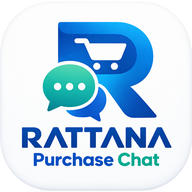
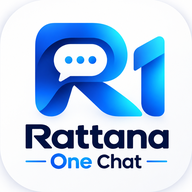
v2.08 — เปลี่ยนชื่อเป็น Rattana One Chat + โลโก้ใหม่ · รูปประจำบัญชี (จัดซื้อ/Official/Mart) ทุกจุด รวมไอคอนแจ้งเตือน

diff --git a/sw.js b/sw.js
@@ -1,4 +1,4 @@
-/* RTN Chat Hub — Service Worker v2 (หลายบัญชี: กดแจ้งเตือนแล้วเปิดแชทในบัญชีของมัน)
+/* Rattana One Chat (เดิม RTN Chat Hub) — Service Worker v3 (หลายบัญชี: กดแจ้งเตือนแล้วเปิดแชทในบัญชีของมัน)
    หน้าที่เดียว: รับ Web Push แล้วเด้งแจ้งเตือนของเครื่อง แม้ปิดแอพอยู่
    ไม่ cache ไฟล์แอพ (แอพเป็นไฟล์เดียว อัปเดตบ่อย — cache แล้วจะได้ของเก่า) */
 
@@ -6,15 +6,17 @@ self.addEventListener('install', () => self.skipWaiting());
 self.addEventListener('activate', e => e.waitUntil(self.clients.claim()));
 
 const ICON = 'icon-192.png';
+// ไอคอนของแจ้งเตือน = รูปประจำบัญชีที่แชทนั้นอยู่ (badge ยังเป็นไอคอนแอพ — Android ใช้ทำสัญลักษณ์ขาวดำบนแถบสถานะ)
+const ACCT_ICON = { 1:'acct-purchase.png', 2:'acct-rpbsale.jpg', 3:'acct-rattanamart.jpg' };
 
 self.addEventListener('push', event => {
   let d = {};
   try { d = event.data ? event.data.json() : {}; } catch (_) { d = { body: event.data && event.data.text() }; }
 
-  const title = d.title || 'RTN Chat Hub';
+  const title = d.title || 'Rattana One Chat';
   const opts = {
     body: d.body || '',
-    icon: ICON,
+    icon: ACCT_ICON[d.account] || ICON,
     badge: ICON,
     // เรื่องเดียวกันเด้งทับอันเดิม ไม่ท่วมจอ · renotify ให้สั่นซ้ำเมื่อมีอันใหม่จริง
     tag: d.tag || 'pur',

diff --git a/index.html b/index.html
@@ -1,1 +1,1 @@
-<!DOCTYPE html><html lang="th"><head><meta charset="UTF-8"><meta http-equiv="refresh" content="0; url=rattana-purchase-chat.html"><title>Rattana Purchase Chat</title></head><body><a href="rattana-purchase-chat.html">Rattana Purchase Chat</a></body></html>
+<!DOCTYPE html><html lang="th"><head><meta charset="UTF-8"><meta http-equiv="refresh" content="0; url=rattana-purchase-chat.html"><title>Rattana One Chat</title></head><body><a href="rattana-purchase-chat.html">Rattana One Chat</a></body></html>
